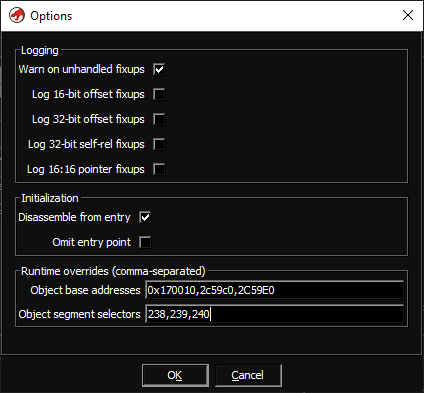
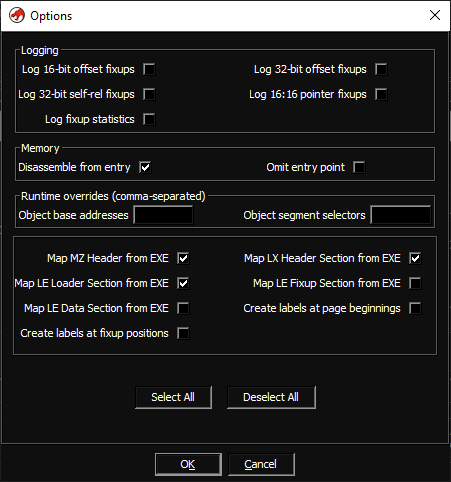
Updated readme

diff --git a/README.md b/README.md
@@ -5,6 +5,8 @@ Download a release matching your ghidra version from the [releases](https://gith
 ## Features
 
 * Adds support for LX and LE-style executable formats to Ghidra
+* Objects are build with full page-map and fixup (relocation) support
+* MZ and LX image data (headers, loader section, etc.) can be mapped to an overlay 
 * Full fixup support for:
   * 16-bit selector fixups (type 2)
   * 16:16 pointer fixups (type 3)
@@ -14,16 +16,29 @@ Download a release matching your ghidra version from the [releases](https://gith
   * byte fixups (type 0)
   * 16:32 pointer fixups (type 6)
   * Undefined by spec: type 1 & 4 
-* Unhandled fixups will be logged
-* Loader option to manually override the object base addresses and segment selectors
+* Customizable loader options:
+  * Manually override the object base addresses and segment selectors (good for syncing with a debugger / DOSBox)
+  * Map image to overlay:
+    * Map MZ Header
+    * Map LX Header
+    * Map LX Loader Section
+    * Map LX Fixup Section (fully typed!)
+    * Map LX Data Section (i.e. the unmodified page data)
+  * Log fixup statistics / Log individual fixup types
+  * Create labels for each fixup in memory
+  * Create labels for each page beginning in memory
+  
+![Options](data/options.png)
+
+![Options](data/imagedata.png)
+
+![Options](data/labels.png)
 
 ## Manually overriding base addresses and segment selectors
 
 The loader can be instructed to manually override the base addresses and selectors of the executable's objects. I use this to feed Ghidra the same memory layout and segment selectors as I find in the dosbox debugger. In return I can use the same addresses found in Ghidra to set breakpoints in the debugger etc.
 
 To override the base addresses, just enter a comma-seperated list of hex values into the field:
-
-![Options](data/options.png)
 
 The loader will adjust the locations (and fixups!) accordingly:
 
